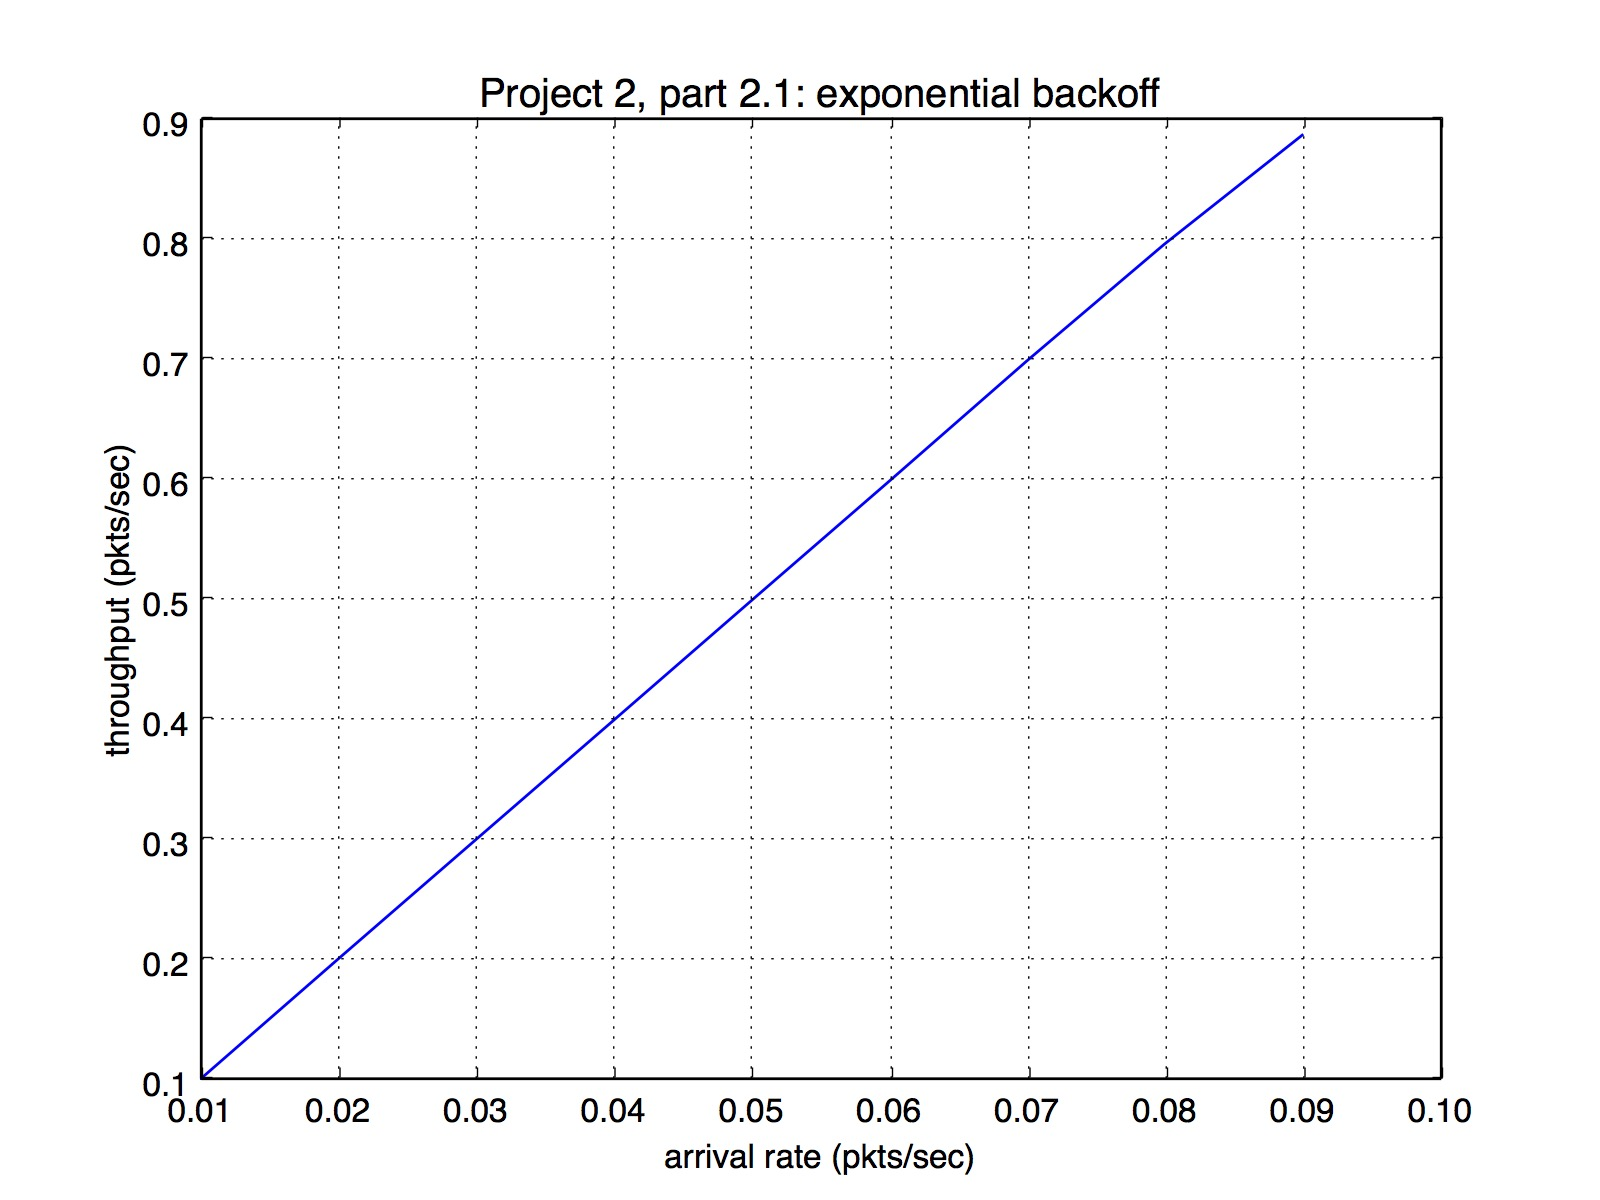
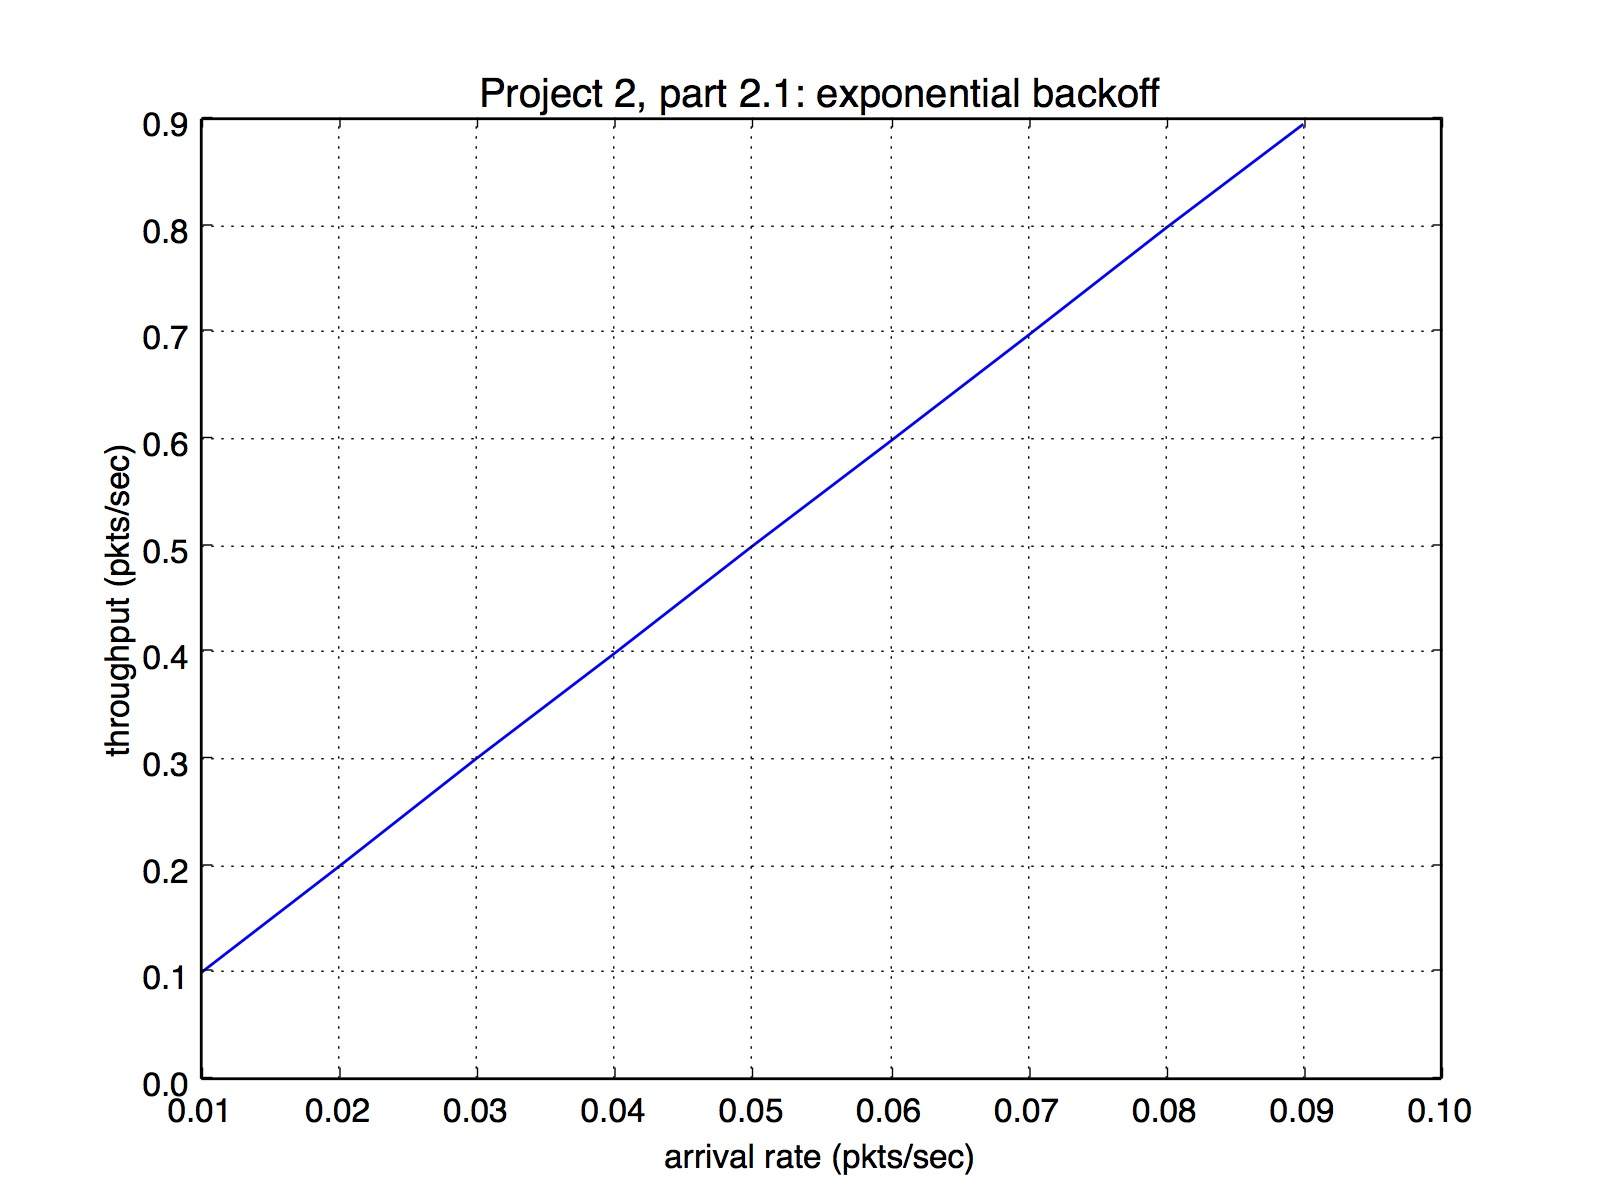
change name to simulation2.py

diff --git a/part2.py b/part2.py
@@ -1,3 +1,6 @@
+#Dimitar Vasilev, Matthew Quesada
+
+
 from __future__ import division
 import random
 import simpy
@@ -6,19 +9,15 @@ from matplotlib import pyplot
 
 SLOT_LENGTH = 1
 RANDOM_SEED = 29
-SIM_TIME = 500000
+SIM_TIME = 100000
 NUM_NODES = 10
 exp_throughput = []
 linear_throughput = []
 Lambda = [0.01, 0.02, 0.03, 0.04, 0.05, 0.06, 0.07, 0.08, 0.09]
 
 class node:
-    def __init__(self, env, rate, my_id):
+    def __init__(self, env, rate):
         self.env = env
-        self.success_packets = 0
-        self.flag_processing = 0
-        self.packet_number = 0
-        self.id = my_id
         self.rate = rate
         self.N = 0
         self.L = 0
@@ -28,7 +27,6 @@ class node:
         self.L -= 1
         #finish processing set attmpt to 0
         self.N = 0
-        self.success_packets += 1
         self.S += 1
   
     def packets_arrival(self, env):
@@ -36,12 +34,9 @@ class node:
         while True:
             # Infinite loop for generating packets
             yield env.timeout(random.expovariate(self.rate))
-    
             # arrival time of one packet
-            self.packet_number += 1
             self.L += 1
             
-
     def exponential_backoff(self):
         self.S = self.S + random.randint(0, 2**min(self.N, 10))
         self.N += 1
@@ -56,69 +51,73 @@ class ethernet:
         self.slot_number = 0
         self.success_slots = 0
         self.collision_slots = 0
-        self.empty_slots = 0
-        self.list_nodes = [node(env, rate, x) for x in range(NUM_NODES)]
+        self.wasted_slots = 0
+        self.list_nodes = [node(env, rate) for currNode in range(NUM_NODES)]
         self.rate = rate
         self.algorithm = algorithm 
 
     def start(self):
     #enable packet arrival at simultaneous time
-        for x in range(NUM_NODES):
-            self.env.process(self.list_nodes[x].packets_arrival(self.env))
+        for eachNode in range(NUM_NODES):
+            currentN = self.list_nodes[eachNode].packets_arrival(self.env)
+            self.env.process(currentN)
 
         while True:
+            transmissions = 0
             yield self.env.timeout(SLOT_LENGTH)
+        
+            #first index                
+            node_index = -1            
+            for current in range(NUM_NODES):
+                packets_in_queue = self.list_nodes[current].L
+                next_transmission = self.list_nodes[current].S
+                # Check if node has packets
+                # Check if behind in slots and update if so            
+                if(packets_in_queue and (next_transmission <= self.slot_number)):
+                    transmissions = transmissions + 1
+                    self.list_nodes[current].S = self.slot_number
+                    node_index = current
 
-            request = 0                 # counter used to keep track of requests at current slot
-            node_index = -1             #   index of the first request
-            for x in range(NUM_NODES):
-                if(self.list_nodes[x].L == 0):
-                    continue            # if list_nodes have no packets in their queue, ignore
-                
-                # list_nodes queue have packets,
-                # update their slot if they are behind current slot
-                if((self.list_nodes[x].S <= self.slot_number)):
-                    request += 1
-                    self.list_nodes[x].S = self.slot_number
-                    node_index = x
+            #if no wasted slots 
+            if(transmissions > 0):
+                if(transmissions == 1):
+                    self.success_slots = self.success_slots + 1
+                    self.list_nodes[node_index].process_packet(self.env)
+                else: #there will be collisions since transmissions is greater than 1
+                    self.collision_slots = self.collision_slots + 1
+                    for currentNode in range(NUM_NODES):
+                        if(self.list_nodes[currentNode].L > 0):
+                            if(self.list_nodes[currentNode].S == self.slot_number):
+                                #check which algorithm to use
+                                if self.algorithm == 'exponential':
+                                    self.list_nodes[currentNode].exponential_backoff()
+                                else:   
+                                    self.list_nodes[currentNode].linear_backoff()
+            else:#increment wasted slot counter
+                self.wasted_slots = self.wasted_slots + 1
+            self.slot_number = self.slot_number + 1 
 
-            # If only one node wants to transmit 
-            if request == 1:
-                self.success_slots += 1
-                
-                self.list_nodes[node_index].process_packet(self.env)
-            
-            # If more than 1 request, go through and delay each list_nodes that requested
-            elif request > 1:
-                self.collision_slots += 1
-                for x in range(NUM_NODES):
-                    if(self.list_nodes[x].S == self.slot_number) and (self.list_nodes[x].L > 0):
-                        if self.algorithm == 'exponential':
-                            self.list_nodes[x].exponential_backoff()
-                        if self.algorithm == 'linear':
-                            self.list_nodes[x].linear_backoff()
-            elif request == 0:
-                self.empty_slots += 1          
 
-            self.slot_number += 1
 
     def get_expthroughput(self):
-        print("lambda: ", self.rate, " throughput: ", self.success_slots/self.slot_number)
-        print("<success:", self.success_slots, " > <collision: ", self.collision_slots, " > <empty: ", self.empty_slots,
-                "> <total", self.slot_number, " >") 
-        exp_throughput.append(self.success_slots/self.slot_number)
+        throughput = self.success_slots/self.slot_number
+        print "Lambda: %.2f " %self.rate + "| Total Slots: %i " %self.slot_number + " | Throughput: %.4f " %throughput + " | Successful Transmissions: %i " %self.success_slots + " | Collisions: %i " %self.collision_slots + " | Wasted Slots: %i" %self.wasted_slots
+        #append throughput to exponential throughputs list
+        exp_throughput.append(throughput)
 
     def get_linearthroughput(self):
-        print("lambda: ", self.rate, " throughput: ", self.success_slots/self.slot_number)
-        print("<success:", self.success_slots, " > <collision: ", self.collision_slots, " > <empty: ", self.empty_slots,
-                "> <total", self.slot_number, " >") 
-        linear_throughput.append(self.success_slots/self.slot_number)
+        throughput = self.success_slots/self.slot_number
+        print "Lambda: %.2f " %self.rate + "| Total Slots: %i " %self.slot_number + " | Throughput: %.4f " %throughput + " | Successful Transmissions: %i " %self.success_slots + " | Collisions: %i " %self.collision_slots + " | Wasted Slots: %i" %self.wasted_slots
+        #append throughput to exponential throughputs list
+        linear_throughput.append(throughput)
                 
 
 def main():
-   
-    print("Exponential backoff")
-    for rate in [0.01, 0.02, 0.03, 0.04, 0.05, 0.06, 0.07, 0.08, 0.09]:
+    print "\nPlease Note: Matplotlib may display errors at end of output. Please ignore, as graphs are included in hard submission.\n"
+    print "Simulation time is: %i. Slot Time T = 1. Number of Hosts N = 10\n" %SIM_TIME
+    
+    print "Exponential Backoff Results"
+    for rate in Lambda:
         env = simpy.Environment()
         myethernet = ethernet(env, rate, 'exponential')
         env.process(myethernet.start())
@@ -127,8 +126,8 @@ def main():
     print("graph will be saved as exponential_backoff.jpeg")
     print('\n')
 
-    print("Linear backoff")
-    for rate in [0.01, 0.02, 0.03, 0.04, 0.05, 0.06, 0.07, 0.08, 0.09]:
+    print "Linear Backoff Results"
+    for rate in Lambda:
         env = simpy.Environment()
         myethernet = ethernet(env, rate, 'linear')
         env.process(myethernet.start())
